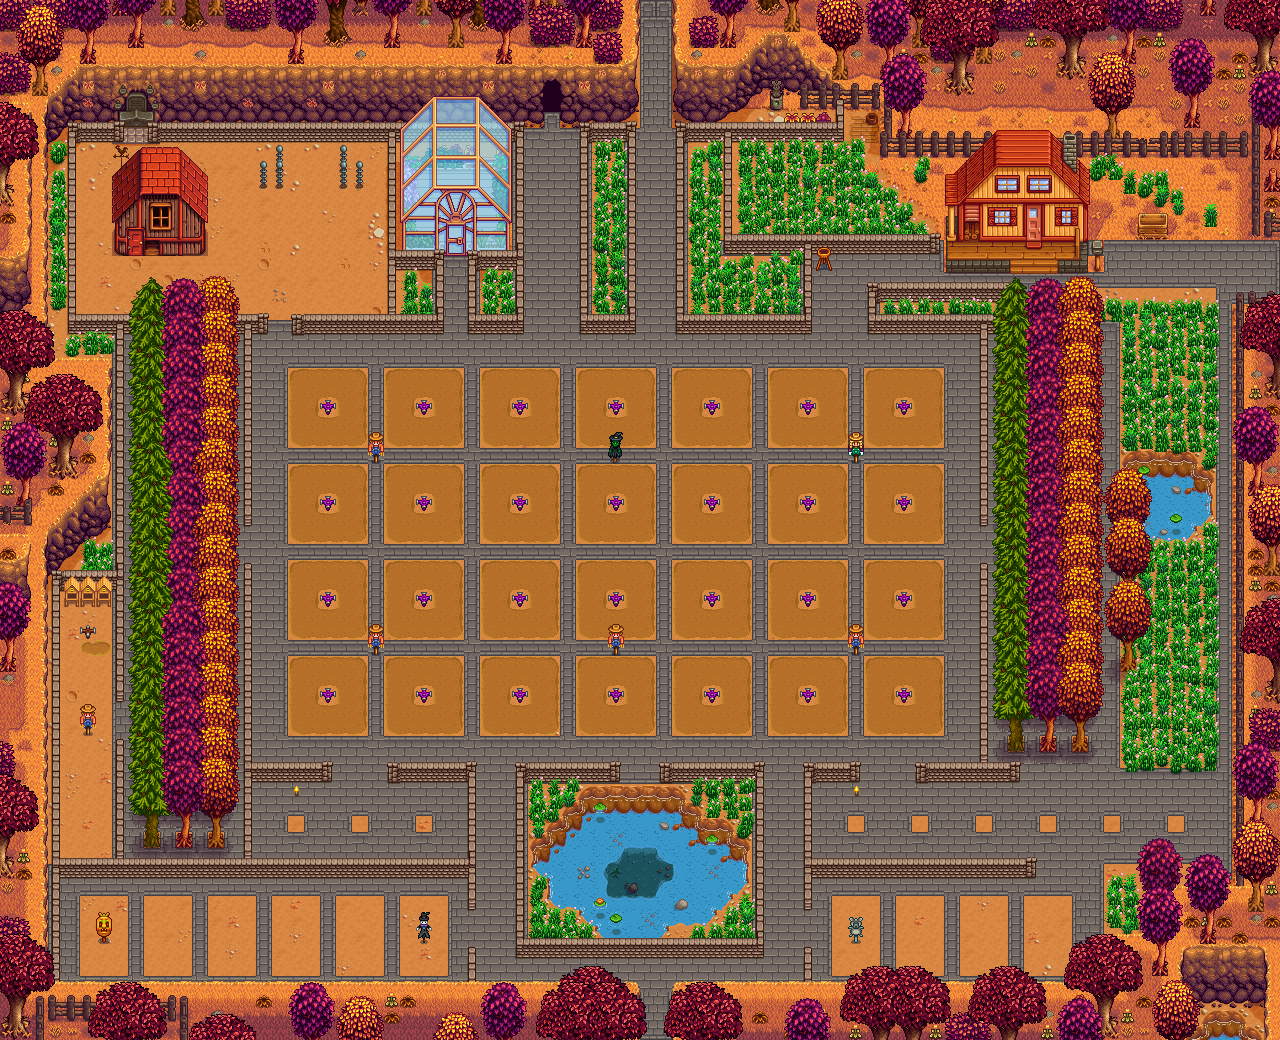
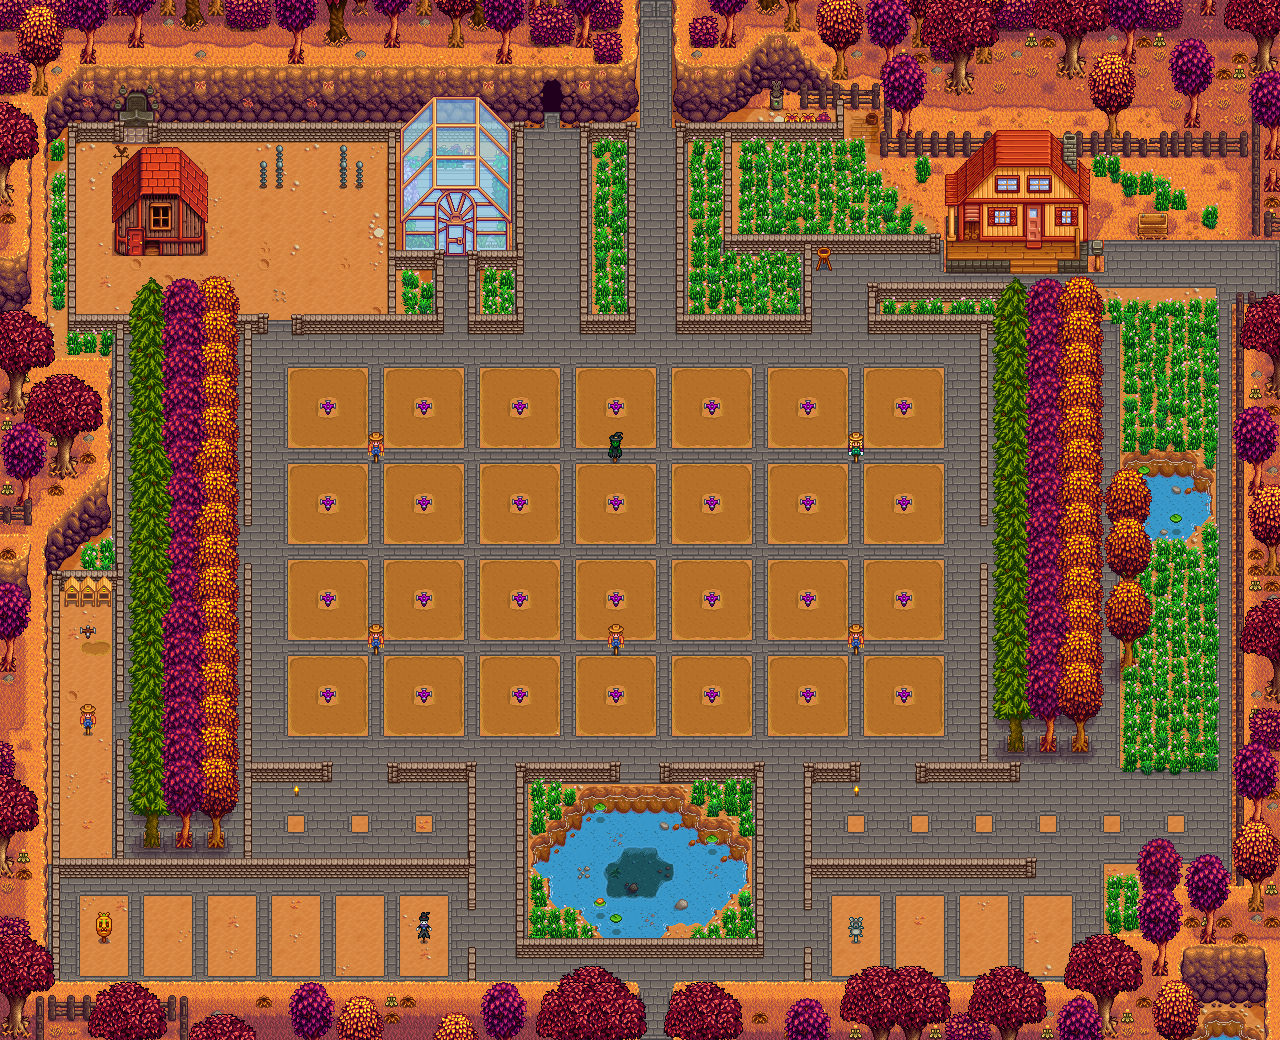
Use deterministic rand seeds for consistent test outputs

diff --git a/view/draw_test.go b/view/draw_test.go
@@ -1,10 +1,12 @@
 package view
 
 import (
+	"math/rand"
 	"os"
 	"testing"
 
 	"fmt"
+
 	"github.com/nictuku/stardew-rocks/parser"
 )
 
@@ -18,6 +20,10 @@ func TestTileCoordinate(t *testing.T) {
 	}
 }
 func TestLoadTile(t *testing.T) {
+
+	// Ensure a known test seed for reproducible test images.
+	rand.Seed(0)
+
 	farm := parser.LoadFarmMap()
 
 	for _, name := range []string{
